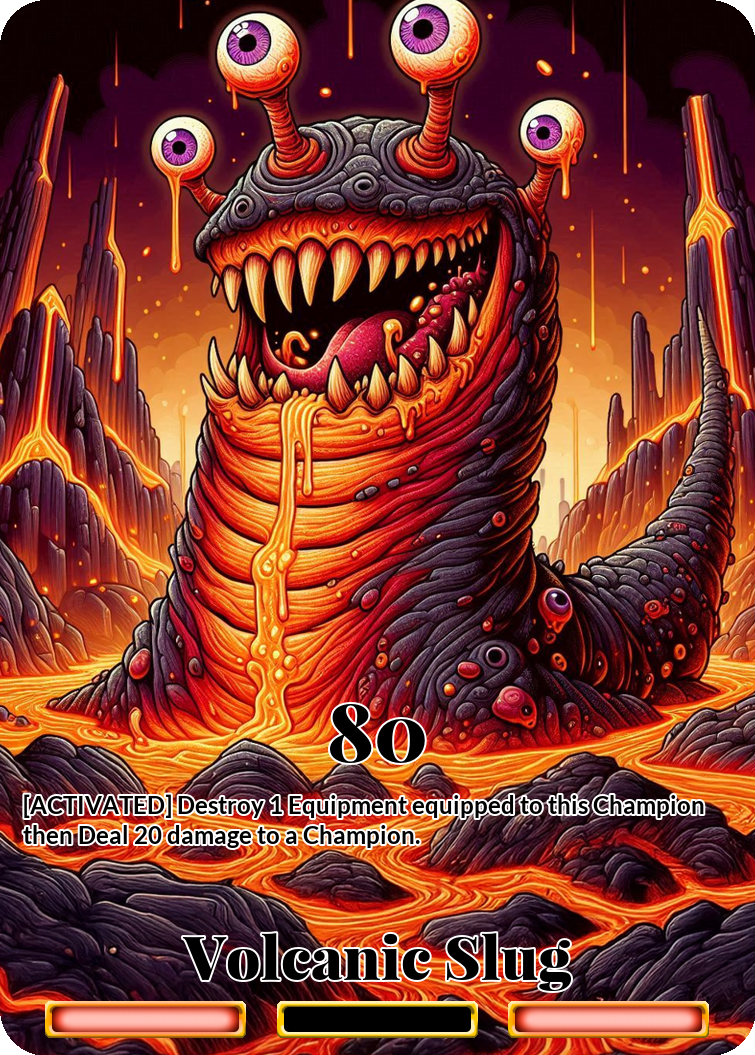
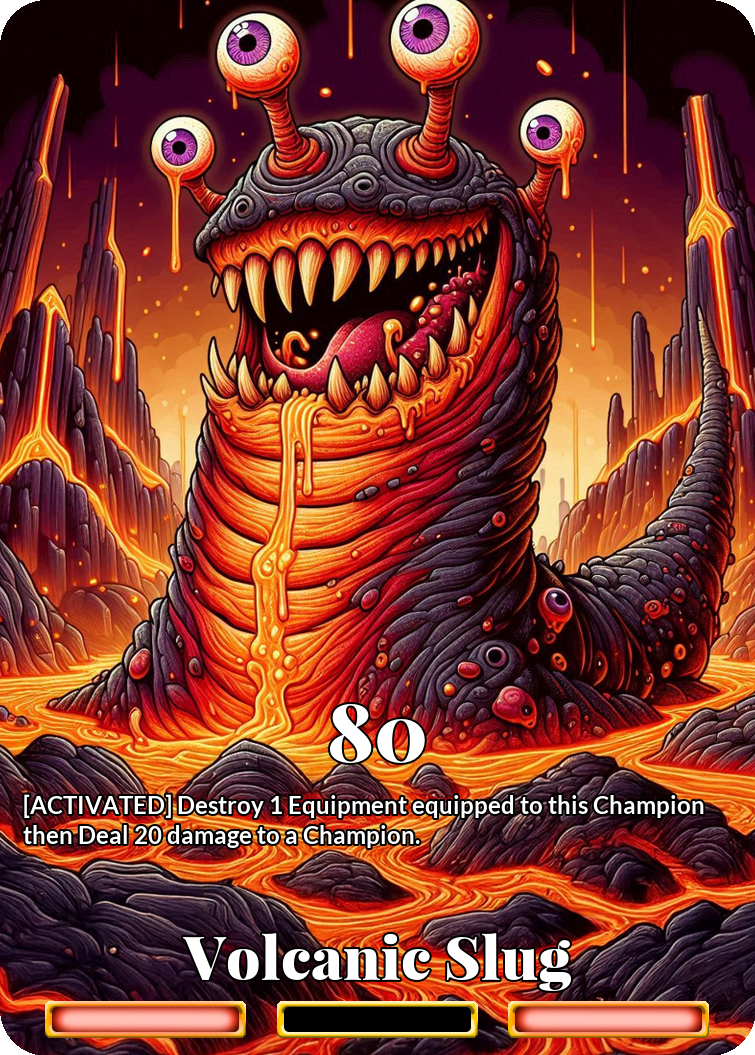
Full arts, no holo

Changed region(s): [[0.0305, 0.728, 0.9444, 0.819], [0.2437, 0.8796, 0.7616, 0.9403], [0.4265, 0.6673, 0.5788, 0.728]]

diff --git a/GenerateCards.py b/GenerateCards.py
@@ -867,7 +867,7 @@ for path in champion_json_paths:
     for card in loaded_json["cards"]:
         for full_art_path in full_arts:
             if full_art_path in card["artwork"]:
-                Creator.generate_champion_card(card, False, True, True).save(
+                Creator.generate_champion_card(card, False, True, False).save(
                     f"finished_cards/full_art/{card["card_name"]}_card.png",
                     "PNG",
                 )
@@ -880,7 +880,7 @@ for path in champion_json_paths:
     for card in loaded_json["cards"]:
         for full_art_path in full_arts:
             if full_art_path in card["artwork"]:
-                Creator.generate_champion_card(card, True, True, True).save(
+                Creator.generate_champion_card(card, True, True, False).save(
                     f"finished_cards/printable/full_art/{card["card_name"]}_card.png",
                     "PNG",
                 )
